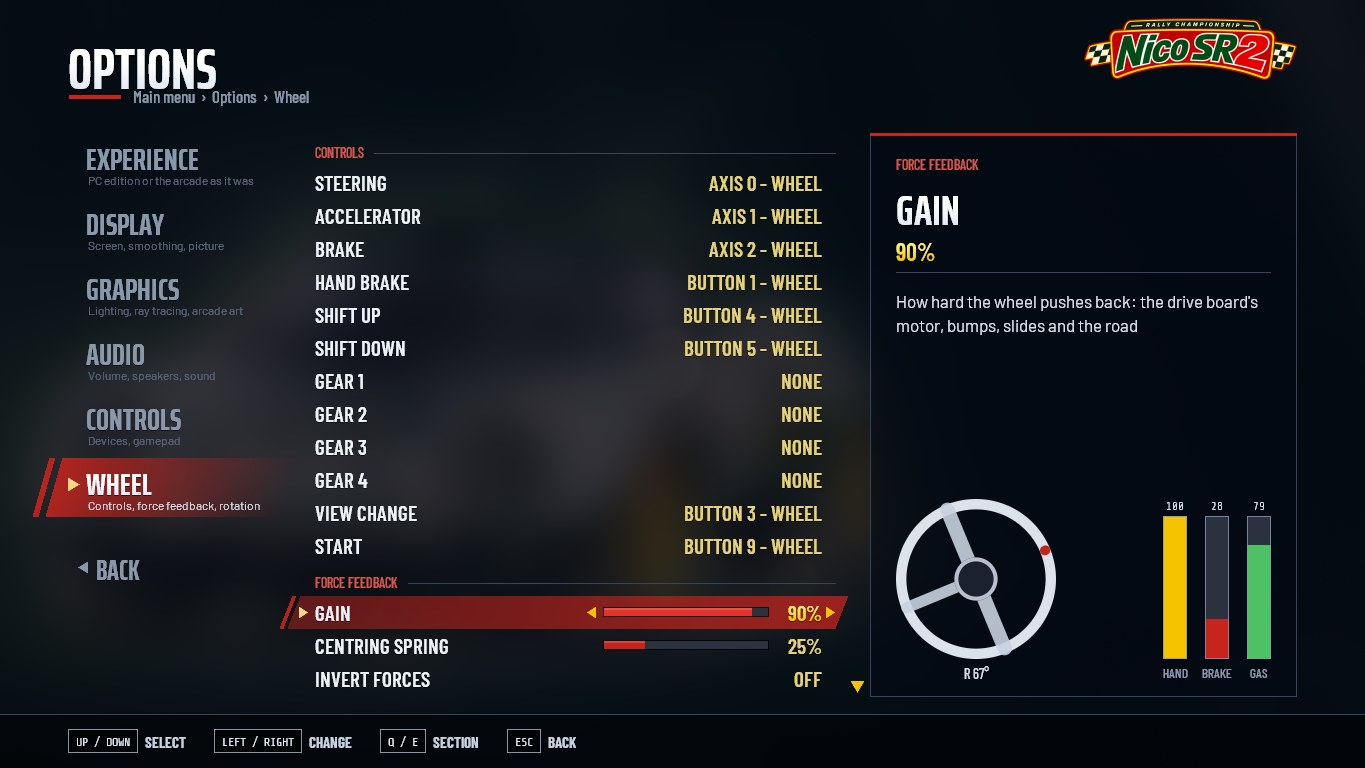
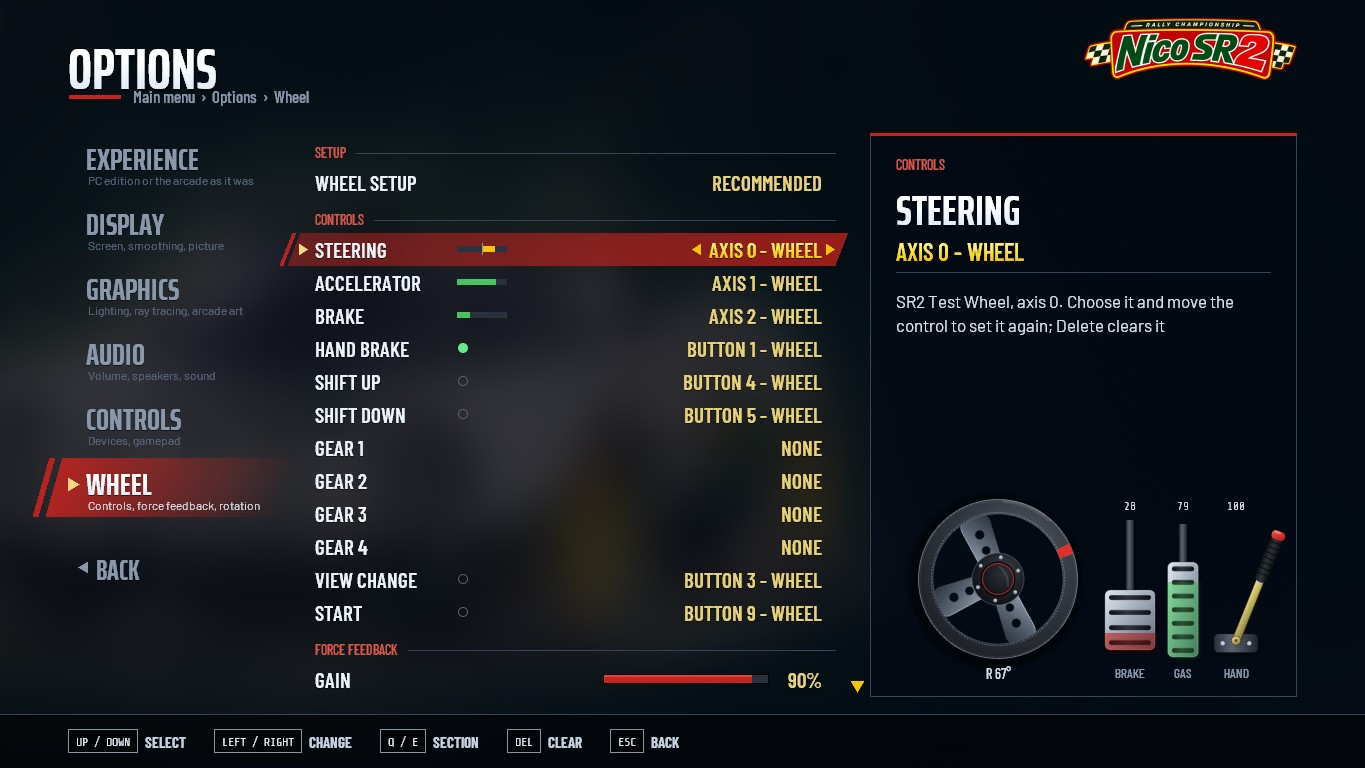
README: the WHEEL tab with the new pictures, and the window that sets a control
Claude-Session: https://claude.ai/code/session_012rBU8vf8Fzbsx2SBUYsrX2

diff --git a/README.md b/README.md
@@ -85,12 +85,17 @@ its own settings. Its pause menu goes back to PC EDITION.
 
 **Steering wheels (experimental)** are read through SDL, DirectInput included, with force feedback.
 Players report it working on Logitech, Thrustmaster, Fanatec, Moza and Simucube bases; I have no wheel,
-so I can't test them myself. **OPTIONS > WHEEL** sets each control by moving it (pedals, shifter or hand
+so I can't test them myself. **OPTIONS > WHEEL** has a step-by-step WHEEL SETUP and sets each control by moving it (pedals, shifter or hand
 brake on their own USB device too), plus force feedback, rotation and dead zone; the wheel and pedals
 are drawn live there. Everything is saved in `save\wheel.ini`, and `set SR2_WHEEL_LOG=1` prints every
 axis and button you move. If yours gives trouble, please open an issue with that log.
 
-<img src="docs/img/wheel.jpg" alt="OPTIONS > WHEEL: controls, force feedback and the wheel and pedals drawn live" width="100%">
+<table>
+  <tr>
+    <td><img src="docs/img/wheel.jpg" alt="OPTIONS > WHEEL: controls, force feedback and the wheel and pedals drawn live"></td>
+    <td><img src="docs/img/wheel_setup.jpg" alt="Setting a control by moving it: press the pedal all the way down"></td>
+  </tr>
+</table>
 
 ## Performance
 
